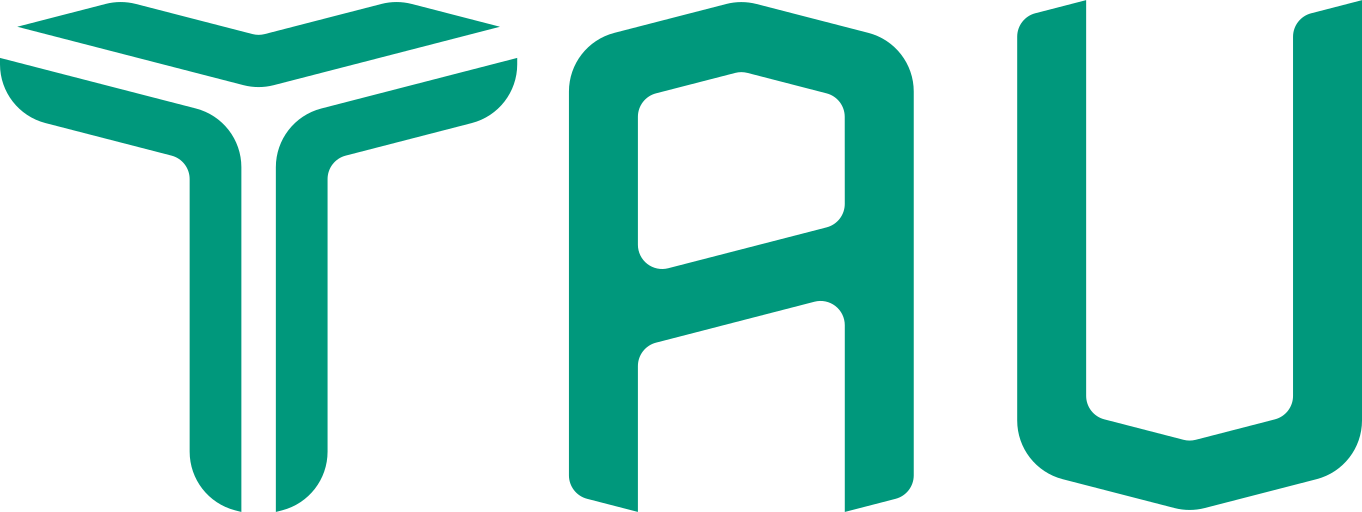
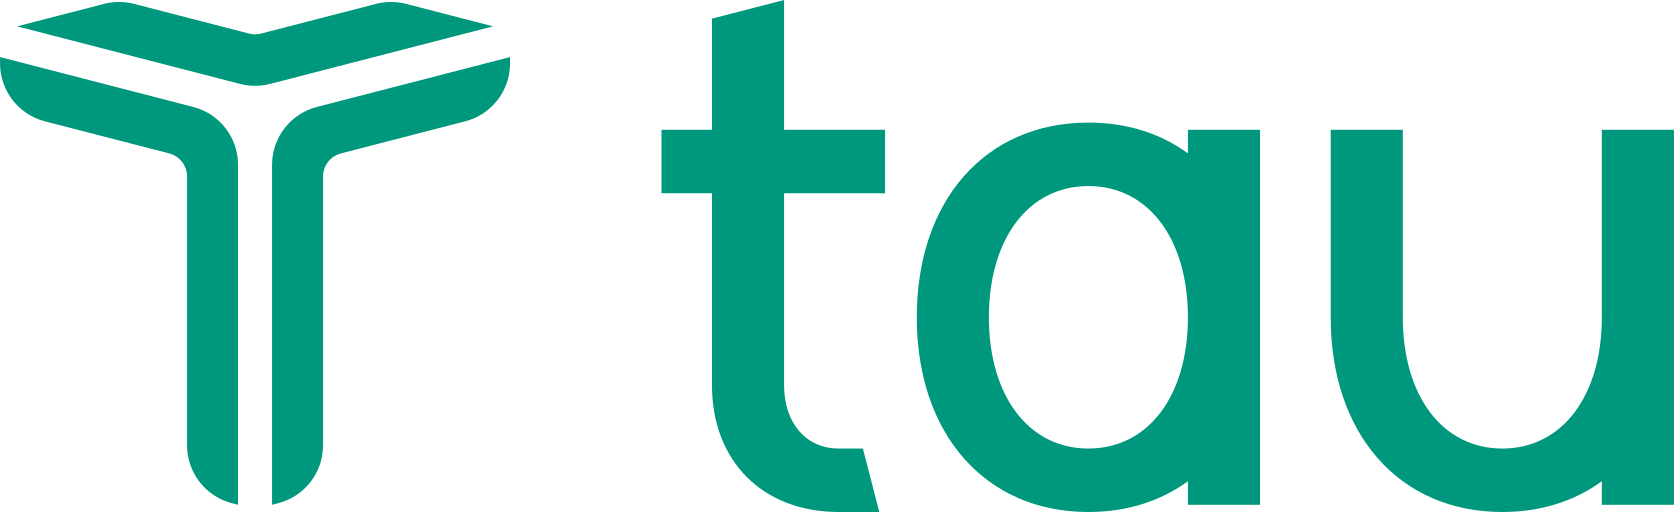
feat(tau-examples): Redraw the Tau wordmark with custom lowercase letters
Replace the isometric T/A/U wordmark with the canonical Tau symbol
followed by drawn lowercase "tau": one grid of stems, bars and
squared bowls, a single-storey a and a u that share the same stem, and
a t cut on the symbol's axis. The generator now sizes the view box from
the drawing and also emits the docs component and the marketing site's
separately coloured symbol and letter paths.

diff --git a/libs/tau-examples/src/kernels/replicad/tau-wordmark/main.ts b/libs/tau-examples/src/kernels/replicad/tau-wordmark/main.ts
@@ -1,8 +1,29 @@
-import { draw, type Drawing, type Point2D } from 'replicad';
+import { draw, drawRectangle, type Drawing, type Point2D } from 'replicad';
 import { tauBrandColor } from '../tau-brand.js';
 
-const symbolScale = 1200 / 512;
-const symbolVerticalOffset = 2.622 * symbolScale;
+// Letter grid, y up from the baseline. Bars are slightly thinner than stems so
+// curves and bars read with the same weight as the verticals.
+const letterGrid = {
+  xHeight: 520,
+  stem: 100,
+  bar: 88,
+  overshoot: 10,
+  /** Cubic handle factor; 0.5523 is a circle, larger values square the bowls. */
+  squareness: 0.6,
+  /** The Tau symbol's sloped axis, used for the t's top and tail cuts. */
+  axis: Math.atan(1 / Math.sqrt(15)),
+  tHeight: 700,
+  tLeftBar: 70,
+  tRightBar: 140,
+  tFoot: 176,
+  tTail: 232,
+  bowlWidth: 476,
+  spacing: { markToT: 210, tToA: 44, aToU: 98 },
+  markHeight: 700,
+} as const;
+
+const symbolScale = letterGrid.markHeight / (509.378 - 2.622);
+const symbolVerticalOffset = 509.378 * symbolScale;
 const r24 = 24 * symbolScale;
 const r60 = 60 * symbolScale;
 
@@ -48,43 +69,6 @@ const symbolCornerRadii = {
   top: [r24, r60, 0, r60, 0, r60],
   side: [0, r60, 0, r60, r24, r60],
 } as const;
-
-const aOuterPoints: readonly Point2D[] = [
-  [1960, -681.76],
-  [1480, -805.74],
-  [1480, -1187.64],
-  [1320, -1146.31],
-  [1320, -103.35],
-  [1720, -0.11],
-  [2120, -103.35],
-  [2120, -1146.31],
-  [1960, -1187.71],
-];
-
-const aCounterPoints: readonly Point2D[] = [
-  [1480, -640.4],
-  [1960, -516.52],
-  [1959.85, -227.38],
-  [1719.98, -165.41],
-  [1480, -227.3],
-];
-
-const uPoints: readonly Point2D[] = [
-  [2760, -1187.68],
-  [2360, -1084.44],
-  [2360, -41.48],
-  [2520, -0.18],
-  [2520, -961.96],
-  [2760, -1023.94],
-  [3000, -962],
-  [3000, -41.58],
-  [3160, -0.25],
-  [3160, -1084.44],
-];
-
-const aOuterCornerRadii = [r24, r24, 0, r24, r60, r60, r60, r24, 0] as const;
-const aCounterCornerRadii = [r24, r24, r24, r24, r24] as const;
-const uCornerRadii = [r60, r60, r24, 0, r24, r24, r24, r24, 0, r60] as const;
 
 type Corner = {
   readonly start: Point2D;
@@ -182,17 +166,135 @@ const roundedPolygon = (
   return pen.close();
 };
 
-const createA = (): Drawing =>
-  roundedPolygon(aOuterPoints, aOuterCornerRadii).cut(
-    roundedPolygon(aCounterPoints, aCounterCornerRadii),
-  );
+const rect = ([x0, y0]: Point2D, [x1, y1]: Point2D): Drawing =>
+  drawRectangle(x1 - x0, y1 - y0).translate((x0 + x1) / 2, (y0 + y1) / 2);
 
-export const createTauWordmark = (): Drawing =>
+const polygon = (points: readonly Point2D[]): Drawing => {
+  const [first, ...rest] = points;
+  const pen = draw(first);
+  for (const point of rest) {
+    pen.lineTo(point);
+  }
+  return pen.close();
+};
+
+/** Superellipse-like closed curve from four cubic quadrants. */
+const bowl = ([cx, cy]: Point2D, rx: number, ry: number): Drawing => {
+  const k = letterGrid.squareness;
+  return draw([cx + rx, cy])
+    .cubicBezierCurveTo(
+      [cx, cy + ry],
+      [cx + rx, cy + k * ry],
+      [cx + k * rx, cy + ry],
+    )
+    .cubicBezierCurveTo(
+      [cx - rx, cy],
+      [cx - k * rx, cy + ry],
+      [cx - rx, cy + k * ry],
+    )
+    .cubicBezierCurveTo(
+      [cx, cy - ry],
+      [cx - rx, cy - k * ry],
+      [cx - k * rx, cy - ry],
+    )
+    .cubicBezierCurveTo(
+      [cx + rx, cy],
+      [cx + k * rx, cy - ry],
+      [cx + rx, cy - k * ry],
+    )
+    .close();
+};
+
+const ring = (center: Point2D, rx: number, ry: number): Drawing => {
+  const { stem, bar } = letterGrid;
+  return bowl(center, rx, ry).cut(bowl(center, rx - stem, ry - bar));
+};
+
+/** The single-storey a is a squared bowl closed by a straight stem on the right. */
+const createA = (x: number): Drawing => {
+  const { xHeight, stem, overshoot, bowlWidth } = letterGrid;
+  const rx = bowlWidth / 2;
+  const ry = xHeight / 2 + overshoot;
+  return ring([x + rx, xHeight / 2], rx, ry).fuse(
+    rect([x + bowlWidth - stem, 0], [x + bowlWidth, xHeight]),
+  );
+};
+
+/** The u is the a's bowl opened at the top, with the same right stem. */
+const createU = (x: number): Drawing => {
+  const { xHeight, stem, bar, overshoot, bowlWidth } = letterGrid;
+  const rx = bowlWidth / 2;
+  const cy = xHeight / 2;
+  const ry = cy + overshoot;
+  const outer = bowl([x + rx, cy], rx, ry).fuse(
+    rect([x, cy], [x + bowlWidth, xHeight]),
+  );
+  const counter = bowl([x + rx, cy], rx - stem, ry - bar).fuse(
+    rect([x + stem, cy], [x + bowlWidth - stem, xHeight + overshoot + 1]),
+  );
+  return outer
+    .cut(counter)
+    .fuse(rect([x + bowlWidth - stem, 0], [x + bowlWidth, xHeight]));
+};
+
+/** The t is a stem cut on the symbol's axis, an asymmetric bar and a foot that turns towards the a. */
+const createT = (x: number): Drawing => {
+  const {
+    xHeight,
+    stem,
+    bar,
+    overshoot,
+    axis,
+    tHeight,
+    tLeftBar,
+    tRightBar,
+    tFoot,
+    tTail,
+  } = letterGrid;
+  const left = x + tLeftBar;
+  const right = left + stem;
+  const rise = stem * Math.tan(axis);
+  const footY = tFoot - overshoot;
+  const top = polygon([
+    [left, footY],
+    [right, footY],
+    [right, tHeight],
+    [left, tHeight - rise],
+  ]);
+  const crossbar = rect([x, xHeight - bar], [right + tRightBar, xHeight]);
+  const corner = ring([left + tFoot, footY], tFoot, tFoot).intersect(
+    rect([left, -overshoot], [left + tFoot, footY]),
+  );
+  const tailEnd = right + tTail - stem;
+  // The tail's terminal is cut on the symbol's axis, echoing the top of the stem.
+  const tail = polygon([
+    [left + tFoot - 1, -overshoot],
+    [tailEnd, -overshoot],
+    [tailEnd - bar * Math.tan(axis), -overshoot + bar],
+    [left + tFoot - 1, -overshoot + bar],
+  ]);
+  return top.fuse(crossbar).fuse(corner).fuse(tail);
+};
+
+const symbolWidth = 512 * symbolScale;
+
+/** The canonical Tau symbol, standing on the baseline at the letters' height. */
+export const createSymbol = (): Drawing =>
   roundedPolygon(symbolTopPoints, symbolCornerRadii.top)
     .fuse(roundedPolygon(symbolLeftPoints, symbolCornerRadii.side))
-    .fuse(roundedPolygon(symbolRightPoints, symbolCornerRadii.side))
-    .fuse(createA())
-    .fuse(roundedPolygon(uPoints, uCornerRadii));
+    .fuse(roundedPolygon(symbolRightPoints, symbolCornerRadii.side));
+
+/** The lowercase letters, set after the symbol. */
+export const createLetters = (): Drawing => {
+  const { spacing, bowlWidth, tLeftBar, stem, tRightBar } = letterGrid;
+  const x = symbolWidth + spacing.markToT;
+  const aX = x + tLeftBar + stem + tRightBar + spacing.tToA;
+  const uX = aX + bowlWidth + spacing.aToU;
+  return createT(x).fuse(createA(aX)).fuse(createU(uX));
+};
+
+export const createTauWordmark = (): Drawing =>
+  createSymbol().fuse(createLetters());
 
 const main = () => ({
   shape: createTauWordmark(),

diff --git a/libs/tau-examples/src/kernels/replicad/tau-wordmark/generate-wordmark.ts b/libs/tau-examples/src/kernels/replicad/tau-wordmark/generate-wordmark.ts
@@ -2,39 +2,58 @@ import { readFileSync, writeFileSync } from 'node:fs';
 import { dirname, join } from 'node:path';
 import { fileURLToPath } from 'node:url';
 import openCascade from 'replicad-opencascadejs';
-import { setOC } from 'replicad';
+import { setOC, type Drawing } from 'replicad';
 import sharp from 'sharp';
 import { tauBrandColor } from '../tau-brand.js';
-import { createTauWordmark } from './main.js';
+import { createLetters, createSymbol, createTauWordmark } from './main.js';
 
 setOC(openCascade);
 
+const formatNumber = (value: number): string =>
+  String(Number(value.toFixed(5)));
 const formatPath = (path: string): string =>
-  path.replaceAll(/-?\d+(?:\.\d+)?/g, (value) =>
-    String(Number(Number(value).toFixed(5))),
-  );
+  path.replaceAll(/-?\d+(?:\.\d+)?/g, (value) => formatNumber(Number(value)));
+const pathData = (drawing: Drawing): string =>
+  drawing
+    .toSVGPaths()
+    .flat()
+    .map((path) => formatPath(path))
+    .join(' ');
 
-const paths = createTauWordmark()
-  .toSVGPaths()
-  .flat()
-  .map((path) => formatPath(path));
-const pathData = paths.join(' ');
-const svg = `<svg xmlns="http://www.w3.org/2000/svg" viewBox="0 0 3160 1187.71"><path fill="${tauBrandColor}" fill-rule="evenodd" d="${pathData}"/></svg>\n`;
-const png = await sharp(Buffer.from(svg))
+const wordmark = createTauWordmark();
+const [[minX, minY], [maxX, maxY]] = wordmark.boundingBox.bounds;
+// SVG y runs down: the drawing's top edge becomes the view box origin.
+const viewBox = [minX, -maxY, maxX - minX, maxY - minY]
+  .map((value) => formatNumber(Number(value.toFixed(2))))
+  .join(' ');
+const wordmarkPath = pathData(wordmark);
+const svg = `<svg xmlns="http://www.w3.org/2000/svg" viewBox="${viewBox}"><path fill="${tauBrandColor}" fill-rule="evenodd" d="${wordmarkPath}"/></svg>\n`;
+const png = await sharp(Buffer.from(svg), { density: 300 })
   .resize({ height: 512 })
   .png()
   .toBuffer();
-const component = `export function TauWordmark(properties: React.SVGProps<SVGSVGElement>): React.JSX.Element {
+const component = `// Generated by libs/tau-examples/src/kernels/replicad/tau-wordmark/generate-wordmark.ts. Do not edit.
+export function TauWordmark(properties: React.SVGProps<SVGSVGElement>): React.JSX.Element {
   return (
-    <svg xmlns='http://www.w3.org/2000/svg' viewBox='0 0 3160 1187.71' {...properties}>
+    <svg xmlns='http://www.w3.org/2000/svg' viewBox='${viewBox}' {...properties}>
       <path
         fill='currentColor'
         fillRule='evenodd'
-        d='${pathData}'
+        d='${wordmarkPath}'
       />
     </svg>
   );
 }
+`;
+const marketingModule = `// Generated by libs/tau-examples/src/kernels/replicad/tau-wordmark/generate-wordmark.ts. Do not edit.
+/** The Tau wordmark: symbol and letters as separate even-odd paths, so each can take its own colour. */
+export const wordmark = {
+  viewBox: '${viewBox}',
+  symbol:
+    '${pathData(createSymbol())}',
+  letters:
+    '${pathData(createLetters())}',
+};
 `;
 
 const directory = dirname(fileURLToPath(import.meta.url));
@@ -47,6 +66,8 @@ const outputs = [
     join(workspaceRoot, 'apps/ui/app/components/icons/tau-wordmark.tsx'),
     component,
   ],
+  [join(workspaceRoot, 'apps/docs/app/components/tau-wordmark.tsx'), component],
+  [join(workspaceRoot, 'apps/www/src/wordmark.mjs'), marketingModule],
 ] as const;
 
 if (process.argv.includes('--check')) {

diff --git a/libs/tau-examples/src/kernels/replicad/tau-wordmark/README.md b/libs/tau-examples/src/kernels/replicad/tau-wordmark/README.md
@@ -1,43 +1,34 @@
 # Tau Wordmark
 
-Parametric 2D reconstruction of the complete Tau wordmark. The T, A, and U preserve the Illustrator master's engineered shallow isometric axis, while every rounded corner is a circular Replicad `threePointsArcTo` segment.
+Parametric 2D construction of the Tau wordmark: the canonical Tau symbol followed by custom lowercase `tau` letters. The letters are drawn, not set in a font, from one grid of stems, bars and squared bowls, so every surface that shows the wordmark renders the same outlines.
 
-## Part Census
+## Construction
 
-| Region     | Count | Construction                                         |
-| ---------- | ----: | ---------------------------------------------------- |
-| T chevron  |     1 | Closed drawing with circular three-point corner arcs |
-| T branches |     2 | Mirrored-coordinate closed drawings                  |
-| A          |     1 | Rounded outer drawing cut by a rounded counter       |
-| U          |     1 | Closed drawing with circular three-point corner arcs |
+| Region | Construction                                                                                                   |
+| ------ | -------------------------------------------------------------------------------------------------------------- |
+| Symbol | The canonical rounded Tau symbol (`r0/r24/r60` corners), scaled to the letters' height and standing on the baseline |
+| t      | Stem with its top cut on the symbol's axis, asymmetric bar on the x-height, squared foot turning into a tail cut on the same axis |
+| a      | Single-storey: squared bowl ring closed by a straight right stem                                               |
+| u      | The a's bowl opened at the top, with the same right stem                                                       |
 
-The five regions are fused into one disconnected 2D drawing. There are no BRep parts or GeoSpec selectors.
+Bowls are four cubic quadrants with handle factor `0.6` (a circle is `0.5523`), which squares them slightly. Bars are thinner than stems so horizontals and verticals read with the same weight. All regions are fused into one 2D drawing; the counters are cut, so the exported SVG uses the even-odd fill rule.
 
-## Construction Datums
+## Grid
 
-| Datum                   | Value                                      |
-| ----------------------- | ------------------------------------------ |
-| Brand coordinate system | `3160 × 1187.71` SVG view box              |
-| Sloped-axis angle       | `atan(1 / sqrt(15)) = 14.477512°`          |
-| T source scale          | `1200 / 512` from the canonical Tau symbol |
-| A/U stroke width        | `160`                                      |
-| Base-logo radius family | `r0 / r24 / r60`                           |
-| Wordmark radius family  | `0 / 56.25 / 140.625`                      |
-| Fill                    | `#00987c`                                  |
-
-The A and U points come from the SVG exported from the PDF-compatible Illustrator master. Their 400-unit runs rise by 103.24 units, the Illustrator-rounded form of the same `1 / sqrt(15)` axis used by the T. Every glyph uses the canonical symbol's three-radius profile, scaled by `1200 / 512`, with true circular Replicad arcs.
-
-## Corner Profile
-
-| Glyph | `r0`                                     | `r24`                   | `r60`              |
-| ----- | ---------------------------------------- | ----------------------- | ------------------ |
-| T     | Chevron ×2, branch gap ×2, stem split ×2 | T1, T7, T11             | T2–T6, T8–T10, T12 |
-| A     | A3, A9                                   | A1, A2, A4, A8, A10–A14 | A5–A7              |
-| U     | U4, U9                                   | U3, U5–U8               | U1, U2, U10        |
+| Datum            | Value                             |
+| ---------------- | --------------------------------- |
+| x-height         | `520`                             |
+| Stem / bar       | `100` / `88`                      |
+| Overshoot        | `10`                              |
+| t and symbol top | `700`                             |
+| Bowl width       | `476`                             |
+| Axis             | `atan(1 / sqrt(15)) = 14.477512°` |
+| Symbol → t gap   | `210`                             |
+| Fill             | `#00987c`                         |
 
 ## Verification
 
-Regenerate the SVG and UI component, then check for drift:
+Regenerate the SVG, PNG and consumers, then check for drift:
 
 ```bash
 pnpm exec tsx libs/tau-examples/src/kernels/replicad/tau-wordmark/generate-wordmark.ts
@@ -47,22 +38,15 @@ pnpm nx check-thumbnails tau-examples
 
 GeoSpec currently accepts mesh and BRep evidence, not 2D SVG drawings; generated-asset and thumbnail drift checks cover this example instead.
 
-## Raster Evidence
-
-The sharp Replicad reconstruction was rasterized against the Illustrator SVG at 3160 by 1188 pixels before rounding.
-
-| Comparison                        | Silhouette Dice | Silhouette IoU | Mismatched pixels |
-| --------------------------------- | --------------: | -------------: | ----------------: |
-| Sharp Replicad vs Illustrator SVG |      99.999927% |     99.999854% |                 2 |
-
 ## Benchmark Prompt
 
-> Reconstruct the complete Tau T/A/U wordmark as one parametric 2D Replicad drawing in a 3160 by 1187.71 coordinate system. Preserve the exact 14.477512-degree engineered shallow isometric axes, the canonical rounded Tau symbol, the 160-unit A/U stroke, and the established glyph spacing. Apply the symbol's `r0/r24/r60` corner profile at `1200 / 512` scale using circular three-point arcs. Return only the green 2D drawing and export it as SVG.
+> Draw the Tau wordmark as one parametric 2D Replicad drawing: the canonical rounded Tau symbol, then custom lowercase "tau" letters on a 520 x-height grid with 100-unit stems and 88-unit bars. Use a single-storey a and a u that share the same squared bowl and straight right stem, and a t whose top and tail are cut on the symbol's 14.477512-degree axis. Return only the green 2D drawing and export it as SVG.
 
 ## Render Packet
 
 - `wordmark.svg` - canonical generated vector render.
 - `apps/ui/public/wordmark.svg` - public vector asset.
-- `apps/ui/public/wordmark.png` - public raster asset at 512 pixels high.
+- `apps/ui/public/wordmark.png` - public raster asset at 512 pixels high, used by email.
 - `thumbnail.webp` - runtime-rendered 768 by 576 preview.
-- `apps/ui/app/components/icons/tau-wordmark.tsx` - generated UI consumer using `currentColor`.
+- `apps/ui/app/components/icons/tau-wordmark.tsx` and `apps/docs/app/components/tau-wordmark.tsx` - generated React consumers using `currentColor`.
+- `apps/www/src/wordmark.mjs` - generated symbol and letter paths for the marketing site, coloured separately.
